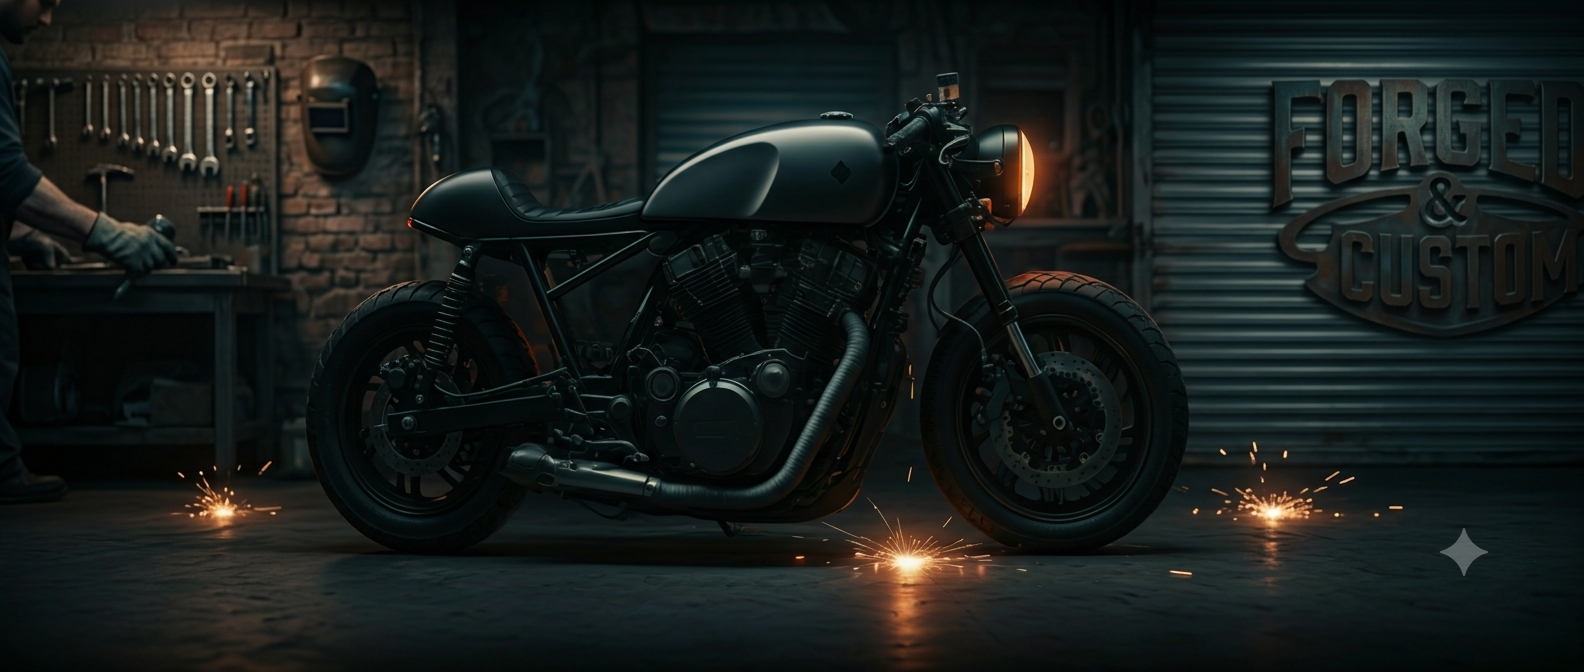
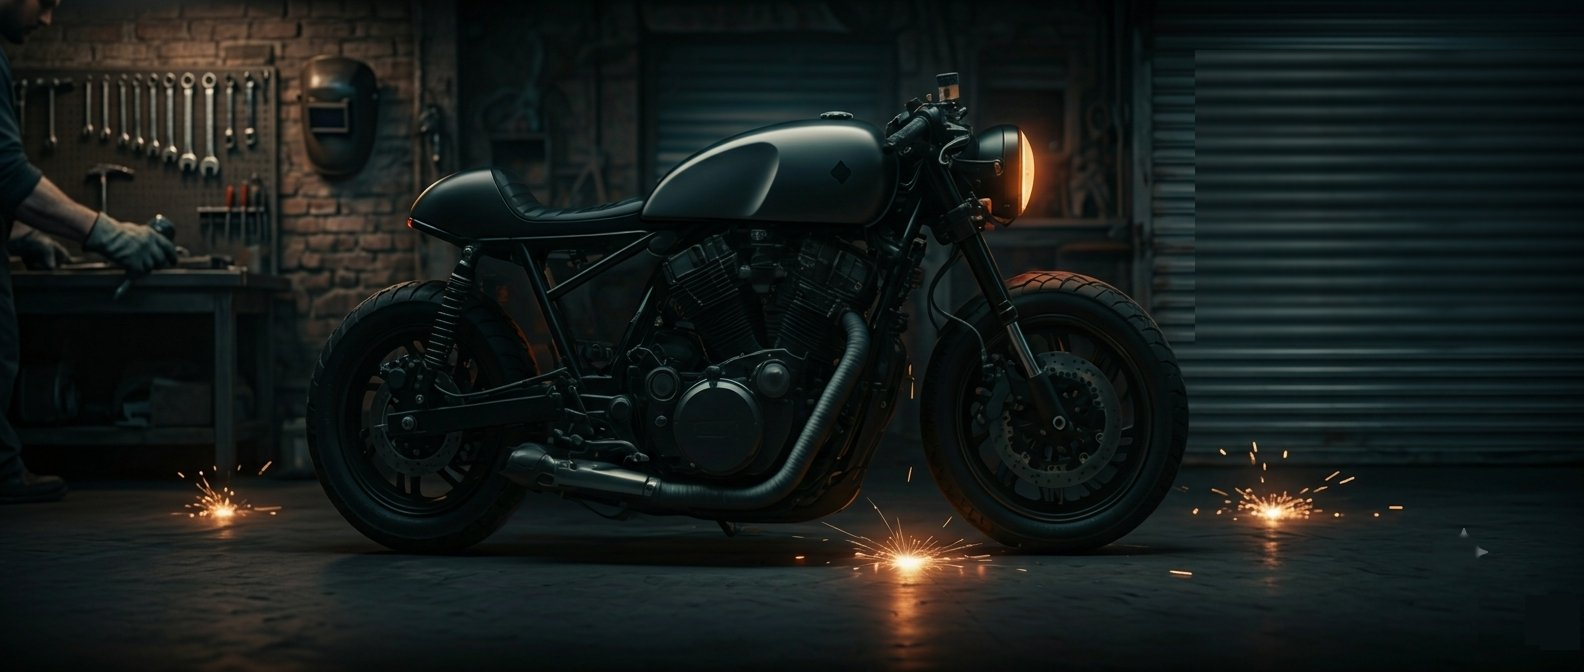
refactor(layout): migrate all sections to fluid --spacing-edge
Replace fixed gutter + max-width/margin-auto pattern with width:100%
+ padding via clamp(24px, 5vw, 72px) across Navbar, Hero, Categories,
FeaturedProducts, WhyUs, CTABanner, and Footer.

CTABanner also restructured to a responsive two-column layout on 768px+
with a dedicated .content wrapper and a full-width secondary button.

Also: real Instagram/Facebook URLs in Footer, SVG favicon, updated
hero-bg and logo assets.

Changed region(s): [[0.7424, 0.0625, 0.9899, 0.5312], [0.8971, 0.7812, 0.959, 0.8438]]

diff --git a/components/CTABanner/CTABanner.module.css b/components/CTABanner/CTABanner.module.css
@@ -5,13 +5,29 @@
 }
 
 .inner {
-  max-width: var(--container-max);
-  margin: 0 auto;
-  padding: var(--spacing-section) var(--spacing-gutter);
-  text-align: center;
+  width: 100%;
+  padding: var(--spacing-section) var(--spacing-edge);
   display: flex;
   flex-direction: column;
-  align-items: center;
+  gap: 32px;
+}
+
+@media (min-width: 768px) {
+  .inner {
+    flex-direction: row;
+    align-items: center;
+    justify-content: space-between;
+    gap: 48px;
+  }
+}
+
+.content {
+  display: flex;
+  flex-direction: column;
+  align-items: flex-start;
+  text-align: left;
+  flex: 1;
+  min-width: 0;
 }
 
 .industrialLine {
@@ -42,37 +58,48 @@
   font-size: 18px;
   line-height: 1.6;
   color: var(--color-on-surface-variant);
-  max-width: 600px;
-  margin-bottom: 48px;
+  max-width: 560px;
+  margin: 0;
 }
 
 .actions {
   display: flex;
   flex-direction: column;
-  align-items: center;
+  align-items: stretch;
   gap: var(--spacing-gutter);
+  flex-shrink: 0;
+  width: min(100%, 386px);
 }
 
-@media (min-width: 480px) {
+@media (min-width: 768px) {
   .actions {
-    flex-direction: row;
+    width: 386px;
   }
 }
 
-.ctaWhatsapp {
+.ctaWhatsapp,
+.ctaSecondary {
   display: inline-flex;
   align-items: center;
   justify-content: center;
   gap: 8px;
-  background-color: var(--color-primary-container);
-  color: var(--color-on-primary-container);
+  width: 100%;
+  min-height: 68px;
+  padding: 16px 40px;
+  border-radius: var(--radius-md);
   font-family: var(--font-oswald);
   font-size: 24px;
   font-weight: 500;
   text-transform: uppercase;
   letter-spacing: 0.05em;
-  padding: 16px 40px;
-  border-radius: var(--radius-md);
+  white-space: nowrap;
+  box-sizing: border-box;
+}
+
+.ctaWhatsapp {
+  background-color: var(--color-primary-container);
+  color: var(--color-on-primary-container);
+  border: 1px solid transparent;
   box-shadow: 0 0 12px rgba(255, 87, 26, 0.3);
   transition: opacity 200ms ease, transform 100ms ease;
 }
@@ -86,18 +113,16 @@
 }
 
 .ctaSecondary {
-  display: inline-flex;
-  align-items: center;
-  gap: 8px;
-  font-family: var(--font-inter);
-  font-size: 14px;
-  font-weight: 700;
-  letter-spacing: 0.1em;
-  text-transform: uppercase;
-  color: var(--color-primary);
-  transition: gap 200ms ease;
+  border: 1px solid var(--color-on-surface);
+  color: var(--color-on-surface);
+  transition: background-color 200ms ease, transform 100ms ease, gap 200ms ease;
 }
 
 .ctaSecondary:hover {
+  background-color: rgba(229, 226, 225, 0.08);
   gap: 16px;
+}
+
+.ctaSecondary:active {
+  transform: scale(0.97);
 }

diff --git a/components/CTABanner/CTABanner.tsx b/components/CTABanner/CTABanner.tsx
@@ -5,13 +5,15 @@ export default function CTABanner() {
   return (
     <section className={styles.section}>
       <div className={styles.inner}>
-        <div className={styles.industrialLine} />
-        <h2 className={styles.title}>
-          Estamos para ayudarte
-        </h2>
-        <p className={styles.description}>
-          Nuestros asesores técnicos están disponibles para ayudarte a encontrar el repuesto exacto para tu vehículo. Consúltanos por WhatsApp.
-        </p>
+        <div className={styles.content}>
+          <div className={styles.industrialLine} />
+          <h2 className={styles.title}>
+            Estamos para ayudarte
+          </h2>
+          <p className={styles.description}>
+            Nuestros asesores técnicos están disponibles para ayudarte a encontrar el repuesto exacto para tu vehículo. Consúltanos por WhatsApp.
+          </p>
+        </div>
         <div className={styles.actions}>
           <a href="https://wa.me/584100000000" className={styles.ctaWhatsapp} target="_blank" rel="noopener noreferrer">
             <MessageCircle size={20} />

diff --git a/components/Footer/Footer.module.css b/components/Footer/Footer.module.css
@@ -9,9 +9,8 @@
   display: flex;
   flex-direction: column;
   gap: var(--spacing-gutter);
-  padding: var(--spacing-section) var(--spacing-gutter);
-  max-width: var(--container-max);
-  margin: 0 auto;
+  width: 100%;
+  padding: var(--spacing-section) var(--spacing-edge);
 }
 
 @media (min-width: 768px) {
@@ -123,9 +122,8 @@
 }
 
 .bottom {
-  max-width: var(--container-max);
-  margin: 0 auto;
-  padding: var(--spacing-gutter) var(--spacing-gutter);
+  width: 100%;
+  padding: var(--spacing-gutter) var(--spacing-edge);
   border-top: 1px solid rgba(92, 64, 55, 0.3);
 }
 

diff --git a/components/Categories/Categories.module.css b/components/Categories/Categories.module.css
@@ -1,7 +1,6 @@
 .section {
-  max-width: var(--container-max);
-  margin: 0 auto;
-  padding: var(--spacing-section) var(--spacing-gutter);
+  width: 100%;
+  padding: var(--spacing-section) var(--spacing-edge);
 }
 
 .header {

diff --git a/components/FeaturedProducts/FeaturedProducts.module.css b/components/FeaturedProducts/FeaturedProducts.module.css
@@ -1,7 +1,6 @@
 .section {
-  max-width: var(--container-max);
-  margin: 0 auto;
-  padding: var(--spacing-section) var(--spacing-gutter);
+  width: 100%;
+  padding: var(--spacing-section) var(--spacing-edge);
 }
 
 .header {

diff --git a/components/Navbar/Navbar.module.css b/components/Navbar/Navbar.module.css
@@ -12,9 +12,8 @@
   align-items: center;
   justify-content: space-between;
   height: 88px;
-  max-width: var(--container-max);
-  margin: 0 auto;
-  padding: 0 var(--spacing-gutter);
+  width: 100%;
+  padding: 0 var(--spacing-edge);
 }
 
 @media (min-width: 768px) {

diff --git a/components/WhyUs/WhyUs.module.css b/components/WhyUs/WhyUs.module.css
@@ -3,9 +3,8 @@
 }
 
 .inner {
-  max-width: var(--container-max);
-  margin: 0 auto;
-  padding: var(--spacing-section) var(--spacing-gutter);
+  width: 100%;
+  padding: var(--spacing-section) var(--spacing-edge);
 }
 
 .header {

diff --git a/app/layout.tsx b/app/layout.tsx
@@ -21,9 +21,9 @@ export const metadata: Metadata = {
   description:
     'La mayor variedad de autopartes y accesorios en Venezuela. Calidad profesional garantizada para carros y motos.',
   icons: {
-    icon: [{ url: '/images/logo.png', type: 'image/png' }],
+    icon: [{ url: '/images/logo.svg', type: 'image/svg+xml' }],
+    shortcut: '/images/logo.svg',
     apple: '/images/logo.png',
-    shortcut: '/images/logo.png',
   },
 }
 

diff --git a/components/Footer/Footer.tsx b/components/Footer/Footer.tsx
@@ -59,10 +59,10 @@ export default function Footer() {
         <div className={styles.social}>
           <p className={styles.socialLabel}>Redes Sociales</p>
           <div className={styles.socialIcons}>
-            <a href="#" className={styles.socialBtn} aria-label="Instagram" target="_blank" rel="noopener noreferrer">
+            <a href="https://www.instagram.com/mnmotorhub/" className={styles.socialBtn} aria-label="Instagram" target="_blank" rel="noopener noreferrer">
               <IconInstagram />
             </a>
-            <a href="#" className={styles.socialBtn} aria-label="Facebook" target="_blank" rel="noopener noreferrer">
+            <a href="https://www.facebook.com/profile.php?id=61590356652354" className={styles.socialBtn} aria-label="Facebook" target="_blank" rel="noopener noreferrer">
               <IconFacebook />
             </a>
           </div>

diff --git a/components/Hero/Hero.module.css b/components/Hero/Hero.module.css
@@ -50,10 +50,8 @@
 .container {
   position: relative;
   z-index: 2;
-  max-width: var(--container-max);
-  margin: 0 auto;
-  padding: 0 var(--spacing-gutter);
   width: 100%;
+  padding: 0 var(--spacing-edge);
 }
 
 .content {

diff --git a/styles/globals.css b/styles/globals.css
@@ -34,8 +34,9 @@
   /* Spacing */
   --spacing-base:     8px;
   --spacing-gutter:   24px;
+  --spacing-edge:     clamp(24px, 5vw, 72px);
   --spacing-section:  80px;
-  --container-max:    1280px;
+  --container-max:    100%;
 }
 
 /* ─── Reset ─────────────────────────────────────────────────── */